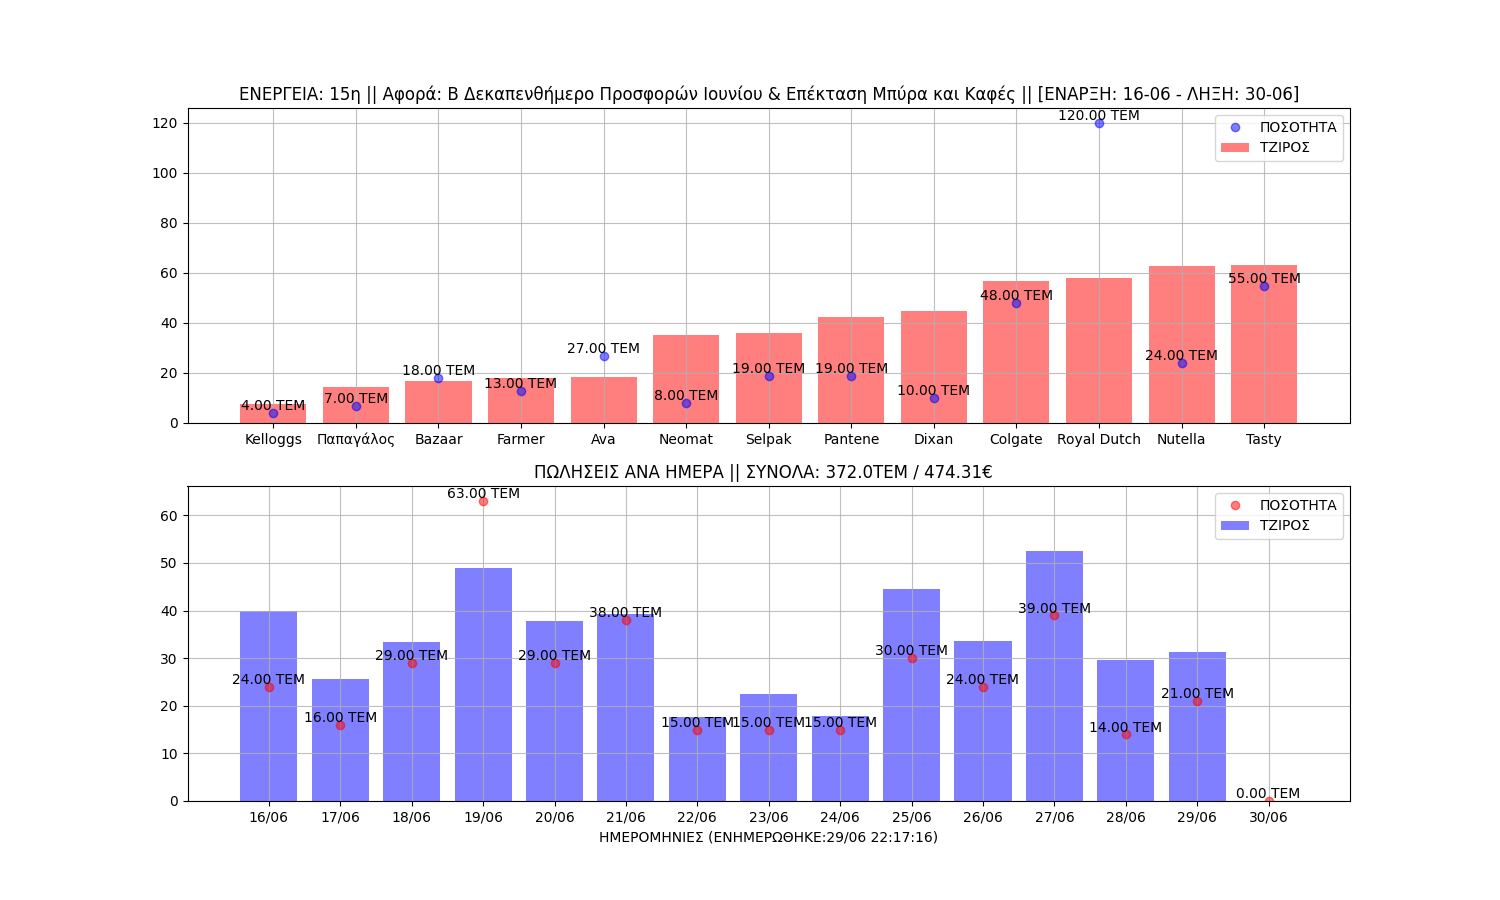
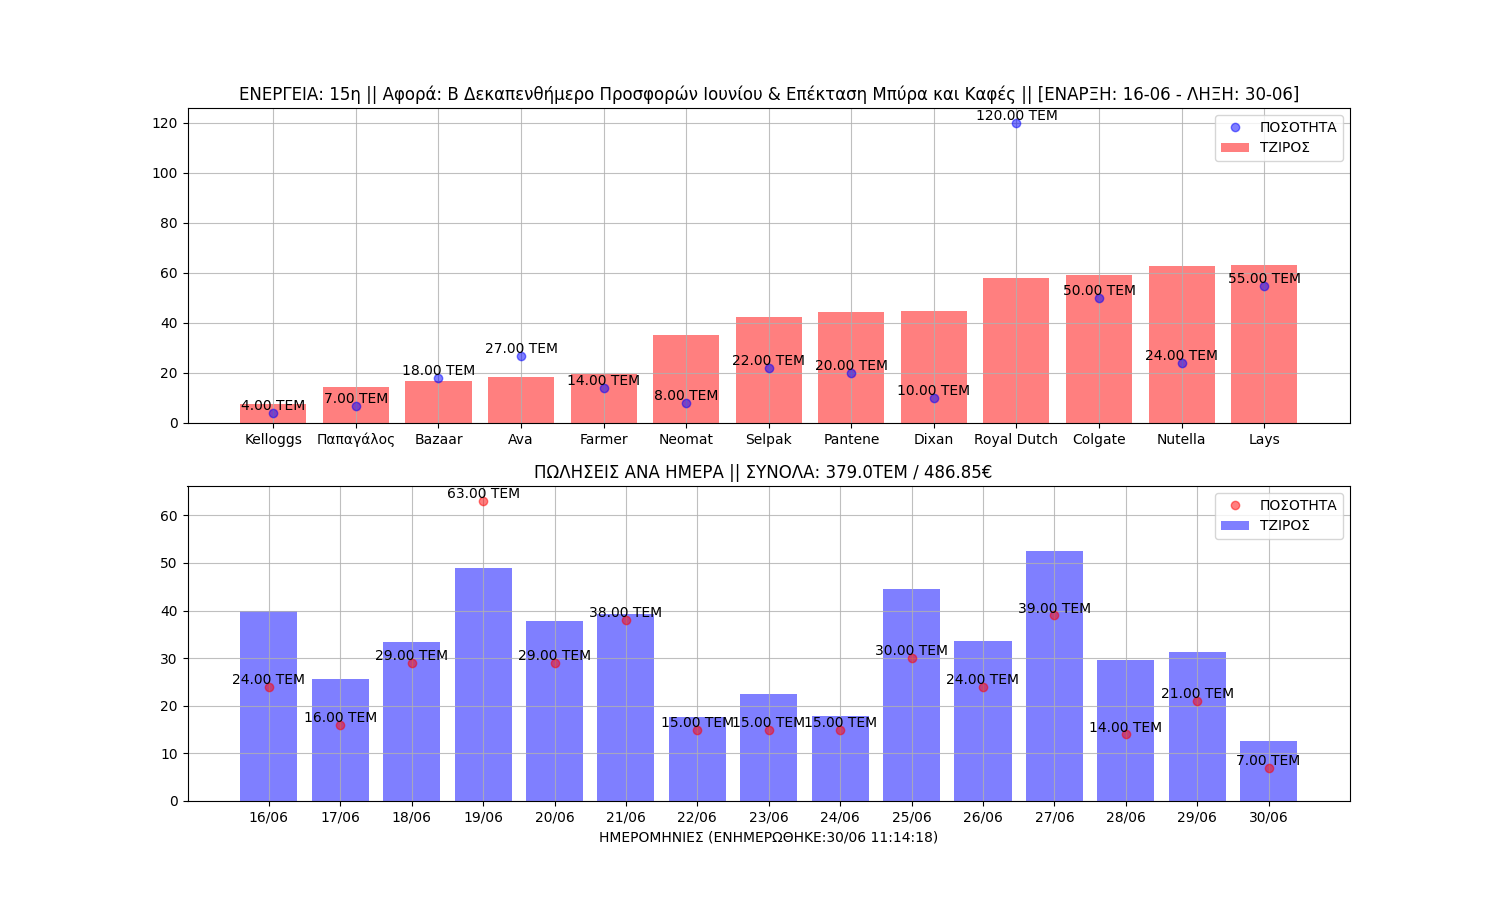
``@Ioannis E. Kommas (PyCharm Commit and Push Code Lines)``

diff --git a/A_DAILY_ΠΟΡΕΙΑ_ΤΙΜΟΚΑΤΑΛΟΓΟΥ_ΠΩΛΗΣΕΩΝ/pricelist_main_app.py b/A_DAILY_ΠΟΡΕΙΑ_ΤΙΜΟΚΑΤΑΛΟΓΟΥ_ΠΩΛΗΣΕΩΝ/pricelist_main_app.py
@@ -6,6 +6,7 @@ from Private import sql_connect, slack_app
 import matplotlib.pyplot as plt
 import time
 from datetime import datetime as dt
+import numpy as np
 
 # ----------------MAKE DF REPORT VIEWABLE----------------------------
 pd.set_option('display.max_columns', 500)
@@ -135,7 +136,9 @@ while True:
         ` ΣΥΜΜΕΤΕΧΟΥΝ: \t {len(final_result)} ΠΡΟΪΟΝΤΑ `
         ` DATERANGE: \t ΑΠΟ: {from_date.strftime("%d-%m-%Y")} \t ΕΩΣ: {to_date.strftime("%d-%m-%Y")} `
         ` ΠΟΣΟΤΗΤΑ ΠΩΛΗΣΕΩΝ: \t {final_result.SalesQuantity.sum()} TEM `
+        ` M.O. / ΗΜΕΡΑ : \t {round(np.mean(quantity_per_day))} TEM ` 
         ` ΤΖΙΡΟΣ ΠΩΛΗΣΕΩΝ: \t {round(final_result.Turnover.sum(), 2)} € `
+        ` M.O. / ΗΜΕΡΑ : \t {round(np.mean(tziros_per_day), 2)} EUR `
         ` Α/Α ΕΝΕΡΓΕΙΑ: {choose_pricelist.id}`
         ` {choose_pricelist.comments}`
         ```{brand_sales}```

diff --git a/A_DAILY_ΠΟΡΕΙΑ_ΤΙΜΟΚΑΤΑΛΟΓΟΥ_ΠΩΛΗΣΕΩΝ/library/timokatalogos.py b/A_DAILY_ΠΟΡΕΙΑ_ΤΙΜΟΚΑΤΑΛΟΓΟΥ_ΠΩΛΗΣΕΩΝ/library/timokatalogos.py
@@ -92,7 +92,7 @@ june_extra_2020 = Timokatalogos(15,
 jule_2020 = Timokatalogos(16,
                           datetime(2020, 7, 1),
                           datetime(2020, 7, 15),
-                          'Αφορά: Α Δεκαπενθήμερο Προσφορών Ιουλίου & Eπέκταση (Nivea - PizBuin)')
+                          'Αφορά: Α Δεκαπενθήμερο Προσφορών Ιουλίου & Eπέκταση (Nivea - PizBuin - Nutella - Lays)')
 
 lista_2020 = [january_2020_02, nestle_2020, feb_2020, kinder_2020, xtapodi_2020, nescafe_2020, march_2020, april_2020,
               alevri_2020, may_2020, may_2020_b, nuvoleta_2020, nivea_2020, june_2020, june_extra_2020]
